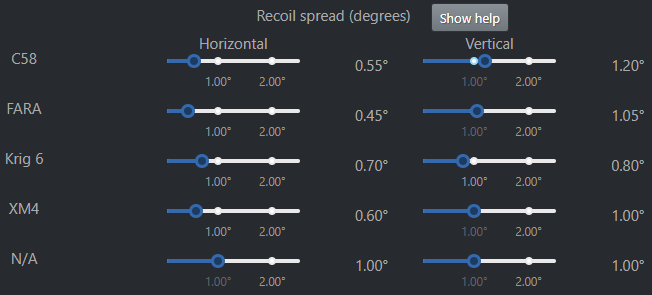
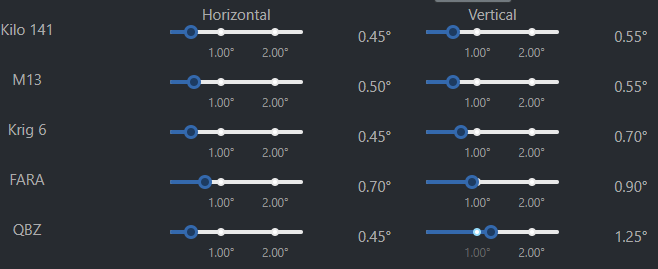
Update examples, organize sections into Cards

diff --git a/assets/stylesheet.css b/assets/stylesheet.css
@@ -16,6 +16,11 @@
     background-color: #3469ad;
 }
 
+.card-header {
+    font-size: 24px;
+    text-align: center;
+}
+
 img[alt=TTK] { width: 100%; }
-img[alt=DPS_head] { width: 100%; }
-img[alt=DPS_chest] { width: 100%; }
+img[alt=TTK_head] { width: 100%; }
+img[alt=TTK_ads] { width: 100%; }

diff --git a/app.py b/app.py
@@ -15,7 +15,7 @@ from truegamedata import get_weapons_data
 
 # Default app properties
 
-APP_TITLE = "COD Warzone Recoil-Adjusted Damage Calculator"
+APP_TITLE = "COD Warzone Recoil-Adjusted Damage Simulator"
 
 
 # Default parameters
@@ -119,7 +119,7 @@ def make_recoil_slider_col(dim, num, width):
         max=2.51,
         step=0.05,
         value=1.0,
-        mark_values=[1, 2],
+        mark_values=[0.05, 1, 2],
         mark_fmt="{:.2f}°",
         width=width
     )
@@ -155,11 +155,11 @@ def make_target_distance_slider_col(width):
     """
     col = make_slider_col(
         text='target-distance-input',
-        min=10,
-        max=100,
+        min=50,
+        max=150,
         step=10,
         value=DEFAULT_TARGET_DISTANCE,
-        mark_values=[10, 50, 100],
+        mark_values=[50, 100, 150],
         mark_fmt="{:.0f}m",
         width=width
     )
@@ -220,7 +220,7 @@ def make_recoil_divs(rows):
             dbc.Col(html.Div(["1.00°"], id=f"spread-x-div-{i}"), width=1),
             make_recoil_slider_col('y', i, width=5),
             dbc.Col(html.Div(["1.00°"], id=f"spread-y-div-{i}"), width=1),
-        ])
+        ], no_gutters=True)
         out.append(row)
     return out
 
@@ -237,6 +237,96 @@ def make_weapon_name_divs(rows):
         row = html.Div(id=f"weapon-name-{i}", style={'height': '50px'})
         out.append(row)
     return out
+
+
+def make_recoil_card(max_weapons=MAX_WEAPONS):
+    header = "Step 2: Recoil spread (degrees)"
+    body = dbc.Row([
+        dbc.Col(
+            html.Div(
+                [
+                    dbc.Button(
+                        "Show help",
+                        id='howto-button',
+                        size='sm',
+                        style={'margin-bottom': 20, 'display': 'inline-block'}
+                    )
+                ] + make_weapon_name_divs(max_weapons)
+            ),
+            width=2, style={'textAlign': 'center'}
+        ),
+        dbc.Col(
+            html.Div(
+                [
+                    dbc.Row([
+                        dbc.Col(["Horizontal"], width=5),
+                        dbc.Col([], width=1),
+                        dbc.Col(["Vertical"], width=5),
+                        dbc.Col([], width=1),
+                    ], style={'margin-bottom': 25, 'textAlign': 'center'})
+                ] + make_recoil_divs(max_weapons)
+            ), width=10
+        ),
+    ])
+    card = dbc.Card([
+        dbc.CardHeader(header),
+        dbc.CardBody(body)
+    ])
+    return card
+
+
+def make_params_card():
+    header = "Step 3: Plot parameters"
+    body = html.Div([
+        html.Div([
+            html.Center("Crosshair location"),
+            dbc.RadioItems(
+                id='radio-aim-center',
+                options=[{'label': k, 'value': k} for k in AIM_CENTER_DICT.keys()],
+                value='chest',
+                inline=True,
+                style={'margin-left': 20, 'margin-bottom': 10, 'display': 'inline-block', 'textAlign': 'center'},
+            )
+        ], style={'width': '90%'}),
+        html.Div([
+            html.Center("Max distance (meters)"),
+            dbc.Row([
+                make_distance_slider_col(width=9),
+                dbc.Col(html.Div(id=f"distance-div"), width=3)
+            ])
+        ]),
+        html.Div([
+            html.Div("Add ADS to TTK:", style={'display': 'inline-block'}),
+            dbc.RadioItems(
+                id='radio-plot-ads',
+                options=[{'label': 'Yes', 'value': 'yes'},
+                         {'label': 'No', 'value': 'no'}],
+                value='no',
+                inline=True,
+                style={'margin-left': 20, 'display': 'inline-block'},
+            )
+        ]),
+        html.Div([
+            html.Div("Plot mode:", style={'display': 'inline-block'}),
+            dbc.RadioItems(
+                id='radio-plot-mode',
+                options=[{'label': 'TTK', 'value': 'ttk'},
+                         {'label': 'STK', 'value': 'stk'},
+                         {'label': 'DPS', 'value': 'dps'}],
+                value='ttk',
+                inline=True,
+                style={'margin-left': 20, 'display': 'inline-block'},
+            )
+        ], style={'margin-top': 5}),
+        html.Br(),
+        dbc.Button('Generate performance plot', id='plot-button', block=True),
+        html.Div("", id='perf-plot-err', style={'textAlign': 'center', 'margin-top': 5}),
+    ])
+    card = dbc.Card([
+        dbc.CardHeader(header),
+        dbc.CardBody(body)
+    ])
+    return card
 
 
 # BEGIN BUILDING THE APP
@@ -284,7 +374,7 @@ app.layout = html.Div(
 
         # LINK INPUT SECTION
         dbc.Card([
-            dbc.CardHeader("Data entry", style={'font-size': 24, 'textAlign': 'center'}),
+            dbc.CardHeader("Step 1: Data Import"),
             dbc.CardBody([
                 html.Div([
                     html.P("Link to TrueGameData comparison page:",
@@ -310,7 +400,7 @@ app.layout = html.Div(
         html.Br(),
 
 
-        # RECOIL MEASUREMENTS SECTION
+        # USER INPUTS SECTION
         dbc.Modal(
             [
                 dbc.ModalHeader("Measuring your recoil spread"),
@@ -325,75 +415,8 @@ app.layout = html.Div(
             size='lg',
         ),
         dbc.Row([
-            dbc.Col(html.Div([html.Br(), html.Br()] + make_weapon_name_divs(MAX_WEAPONS)),
-                    width=2, style={'textAlign': 'center'}),
-            dbc.Col(
-                html.Div(
-                    [
-                        html.Center([
-                            "Recoil spread (degrees)",
-                            dbc.Button("Show help", id='howto-button', size='sm',
-                                       style={'margin-left': 20, 'display': 'inline-block'})
-                        ]),
-                        dbc.Row([
-                            dbc.Col([html.Div("Horizontal", style={'textAlign': 'center'})], width=5),
-                            dbc.Col([], width=1),
-                            dbc.Col([html.Div("Vertical", style={'textAlign': 'center'})], width=5),
-                            dbc.Col([], width=1),
-                        ])
-                    ] + make_recoil_divs(MAX_WEAPONS)
-                ), width=5
-            ),
-            dbc.Col(width=1),
-            dbc.Col(
-                html.Div(
-                    [
-                        html.Div([
-                            html.Center("Crosshair location"),
-                            dbc.RadioItems(
-                                id='radio-aim-center',
-                                options=[{'label': k, 'value': k} for k in AIM_CENTER_DICT.keys()],
-                                value='chest',
-                                inline=True,
-                                style={'margin-left': 20, 'margin-bottom': 10, 'display': 'inline-block', 'textAlign': 'center'},
-                            )
-                        ], style={'width': '90%'}),
-                        html.Div([
-                            html.Center("Max distance (meters)"),
-                            dbc.Row([
-                                make_distance_slider_col(width=9),
-                                dbc.Col(html.Div(id=f"distance-div"), width=3)
-                            ])
-                        ]),
-                        html.Div([
-                            html.Div("Add ADS to TTK:", style={'display': 'inline-block'}),
-                            dbc.RadioItems(
-                                id='radio-plot-ads',
-                                options=[{'label': 'Yes', 'value': 'yes'},
-                                         {'label': 'No', 'value': 'no'}],
-                                value='no',
-                                inline=True,
-                                style={'margin-left': 20, 'display': 'inline-block'},
-                            )
-                        ]),
-                        html.Div([
-                            html.Div("Plot mode:", style={'display': 'inline-block'}),
-                            dbc.RadioItems(
-                                id='radio-plot-mode',
-                                options=[{'label': 'TTK', 'value': 'ttk'},
-                                         {'label': 'STK', 'value': 'stk'},
-                                         {'label': 'DPS', 'value': 'dps'}],
-                                value='ttk',
-                                inline=True,
-                                style={'margin-left': 20, 'display': 'inline-block'},
-                            )
-                        ], style={'margin-top': 5}),
-                        html.Br(),
-                        dbc.Button('Generate performance plot', id='plot-button', block=True),
-                        html.Div("", id='perf-plot-err', style={'textAlign': 'center', 'margin-top': 5}),
-                    ]
-                ), width=4
-            ),
+            dbc.Col(make_recoil_card(), width=8),
+            dbc.Col(make_params_card(), width=4),
         ]),
         html.Br(),
 
@@ -402,7 +425,7 @@ app.layout = html.Div(
         dcc.Store(data='ttk', id='perf-plot-store'),
         dcc.Store(id='results-store'),
         dbc.Card([
-            dbc.CardHeader("Estimated performance plot", id='perf-plot-header', style={'font-size': 24, 'textAlign': 'center'}),
+            dbc.CardHeader("Estimated performance plot", id='perf-plot-header'),
             dbc.CardBody([
                 html.Div([
                     dbc.Row([
@@ -457,7 +480,7 @@ app.layout = html.Div(
 
         # RECOIL SPREAD IMAGE SECTION
         dbc.Card([
-            dbc.CardHeader("Bullet distribution", style={'font-size': 24, 'textAlign': 'center'}),
+            dbc.CardHeader("Bullet distribution"),
             dbc.CardBody([
                 dbc.Row([
                     dbc.Col(

diff --git a/markdown/about2.md b/markdown/about2.md
@@ -21,26 +21,34 @@ The first graph shows chest TTK up to 100 meters, with zero-recoil curves shown
 in dashed lines for comparison.
 See the corresponding [TrueGameData page](https://www.truegamedata.com/?share=bTECUV)
 for the full loadout specs.
-Adjusting for recoil results in a much greater TTK for many of these weapons,
-exceeding one second beyond ranges of about 60 meters.
-The C58, which is the strongest of these weapons based on damage alone, has a slower
-TTK than the much more accurate FARA beyond about 40 meters due to its recoil, but
-it still outpaces the XM4 at all ranges.
-The Krig 6 is often lauded for its incredibly low recoil, but given its very low
-damage output it still cannot compete with the C58 and FARA, and it only slightly
-beats the XM4 at 30-55 meters.
+Adjusting for recoil results in a much greater simulated TTK for many of these weapons
+relative to their theoretical TTK.
+The FARA, despite having the lowest long-range TTK on paper, does noticeably worse
+than the weaker Krig 6 due to its higher recoil.
 
-![TTK](/assets/images/example/chest/ttk_no_ads_no_recoil.png)
+![TTK](/assets/images/example/chest/ttk_nr.png)
 
-Below are DPS graphs for headshots (with zero-recoil curves shown as well) and
-chest shots. These show that it may be (at least based on my recoil measurements)
-impractical aiming for headshots beyond about 30 meters. Even for the laser-accurate
-FARA, headshot DPS drops below chest DPS at 30 meters. This really emphasizes how
-important chest multipliers can be (often being far more important that head damage
-multipliers, as was the case with the CR-56 AMAX before its multiple nerfs).
+Below are headshot TTKs (with zero-recoil curves shown as well).
+These show that, at least based on my recoil measurements,
+headshots can give a huge advantage to certain weapons with high headshot
+multipliers like the M13 if a player is close enough to take advantage of them.
+However, the practicality of aiming for headshots plummets quickly with distance.
+The M13 can manage a better headshot TTK than its chest TTK up to about 40 meters,
+whereas on the other extreme, weapons with very high recoil and/or low headshot
+multipliers such as the FARA are virtually incapable of benefiting from headshots
+except at close ranges, at which point SMGs would triumph anyway.
 
-![DPS_head](/assets/images/example/head/dps.png)
-![DPS_chest](/assets/images/example/chest/dps.png)
+![TTK_head](/assets/images/example/head/ttk_nr.png)
+
+Below, ADS times are added to the TTKs, showing that ADS speed can still
+contribute significantly even at ranges where TTK is dominated by recoil effects.
+
+![TTK_ads](/assets/images/example/chest/ttk_ads.png)
+
+From the above comparisons it seems clear that the Krig 6 is the dominant weapon when
+firing at the chest at long range, but the Kilo 141 and M13 have the potential to outperform
+the Krig 6 when taking headshots at medium to close ranges, or in encounters where
+a player needs to ADS as quickly as possible in response to immediate threats.
 
 
 ### Future work

diff --git a/markdown/about1.md b/markdown/about1.md
@@ -18,20 +18,19 @@ recoil pattern.
 For game balance, developers typically design weapons such that damage and
 recoil are roughly correlated.
 This way, a higher skill level may be required to
-leverage the higher damage output of certain weapons, while weapons with low damage
+leverage the higher damage potential of certain weapons, while weapons with low damage
 output require much less recoil control.
 
 ### Recoil
-Recoil is the displacement of a player's crosshair after firing a round
-of ammunition.
 In Warzone, during sustained automatic fire, the magnitude and direction
-of the displacement after each round is dependent on the number of rounds fired so far.
+of the recoil displacement after each round fired is dependent on the 
+number of rounds fired so far.
 This time-dependence results in a "recoil pattern" that can be learned by players
 to improve their accuracy.
 Each displacement also has a (typically small) random component added to it in order
 to provide some randomness to the recoil pattern.
 This "jitter" effectively caps how well a player can use a weapon, since the jitter
-displacements are not predictable, but still incentivizes quick reactions to correct
+displacements are not predictable, but it still rewards quick reactions to correct
 for random deviations from the target.
 
 All of these traits make it impractical to quantify the effect of a weapon's recoil
@@ -44,9 +43,9 @@ important than the maximum displacements.
 Even more nuanced metrics for quantifying the recoil pattern morphology may still
 fail to capture how well a human player would be able to control the recoil.
 
-### Recoil-adjusted damage calculator
+### Recoil-adjusted damage simulator
 
-The recoil-adjusted damage calculator takes an empirical approach to evaluating weapon
+This tool takes an empirical approach to evaluating weapon
 recoil: it uses measurements of a human player's accuracy with each weapon to
 compute the TTK they would expect to achieve if they were to match that accuracy
 when using that weapon in combat.
@@ -117,5 +116,8 @@ middle of an engagement (typically this only occurs for very inaccurate
 players or weapons, or when aiming at very distant or small targets).
 
 ### Example
+
+The following examples are based on measurements and TrueGameData specs taken around July 22,
+after the Season 4 Reloaded update (and after the C58 hotfix).
 
 **Below is a video showing an example recoil test from which measurements can be taken.**
